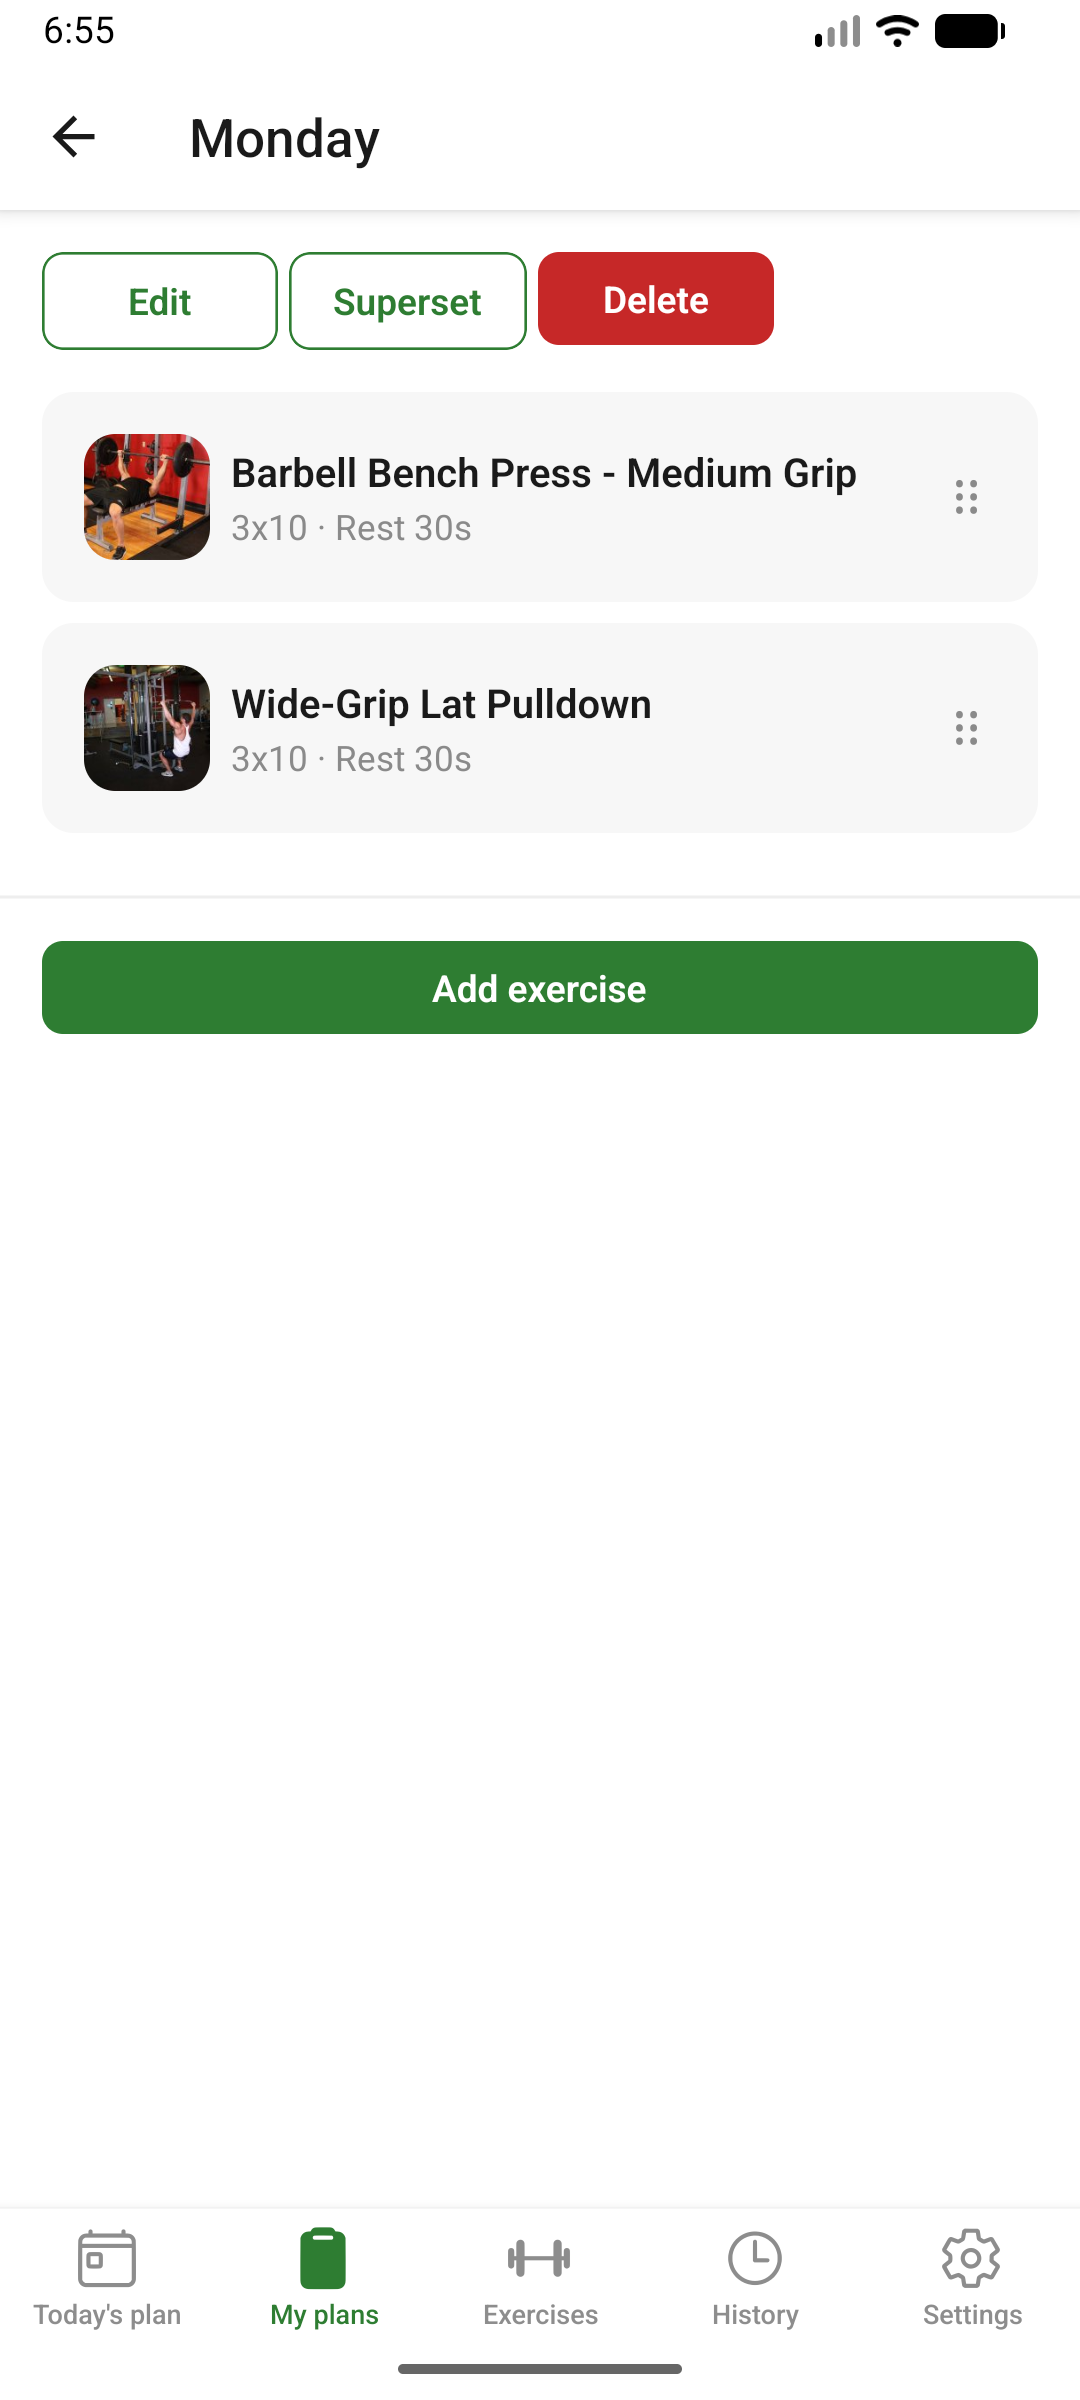
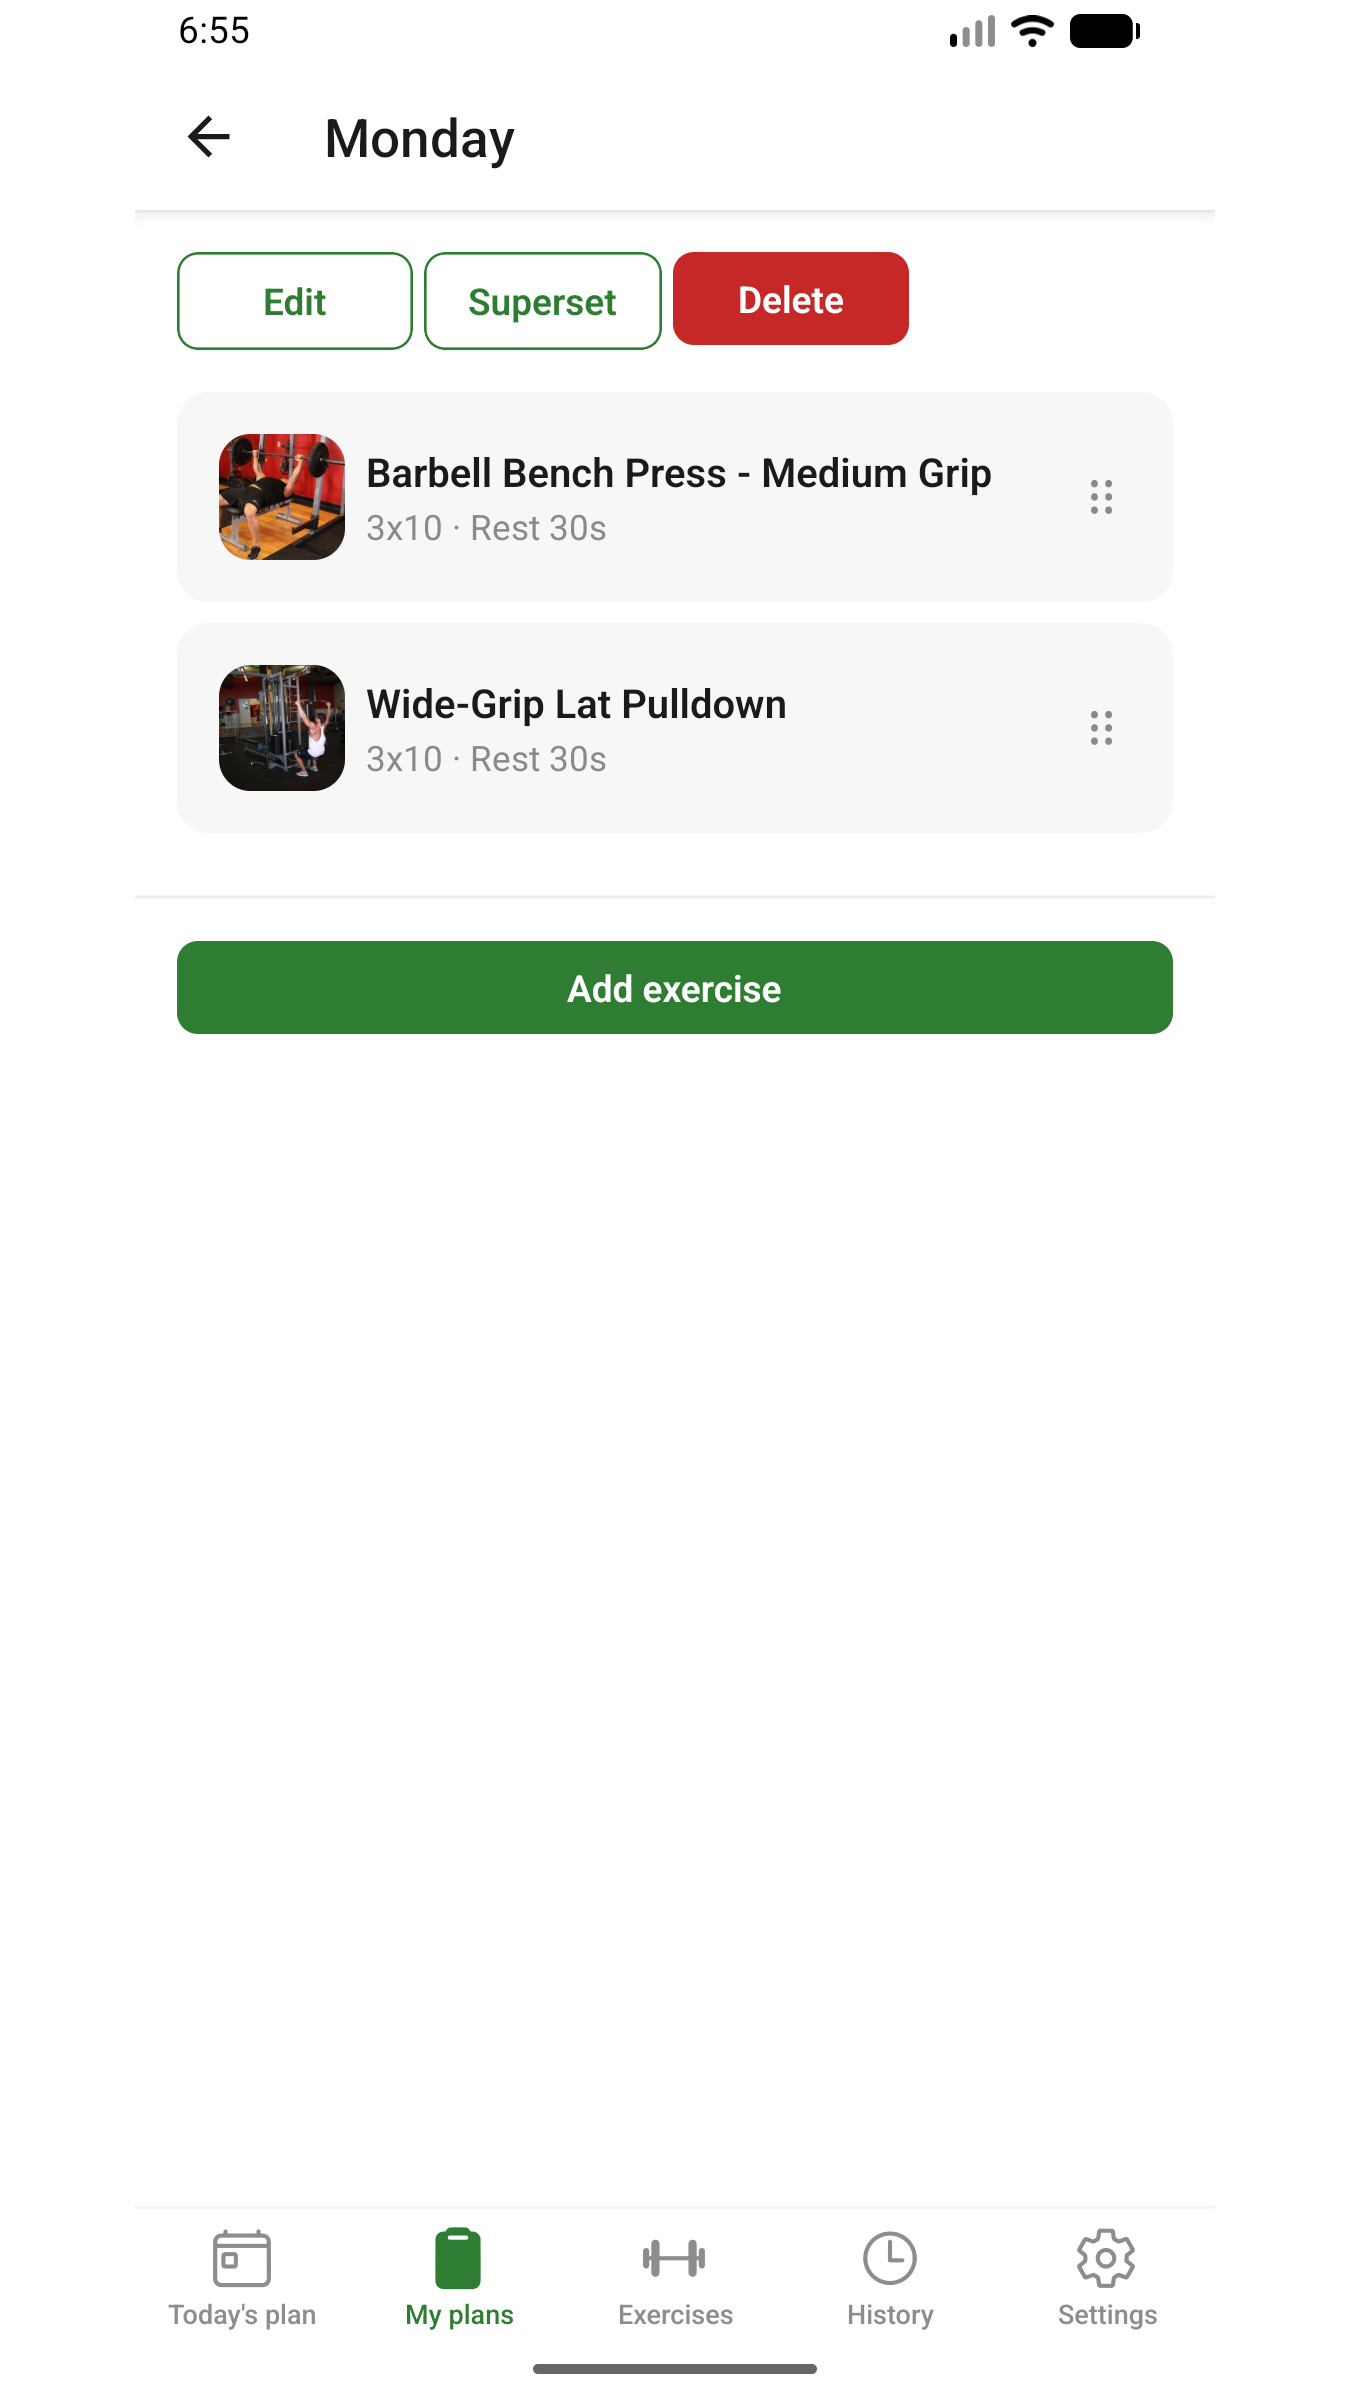
Tildar paso 1 del checklist de Play Store (#49)
* Tildar paso 1 del checklist de Play Store (app creada)

Parte de #38

Claude-Session: https://claude.ai/code/session_01NiTVvvL35n2iUcrgogusV8

* Ajustar las capturas de Play Store a proporcion 9:16

El uploader de Play Console exige 16:9-9:16 para capturas de telefono;
el emulador capturaba en 1080x2400 (20:9), fuera de rango. Se agrega
pillarbox blanco a los costados (invisible, mismo fondo que la app)
hasta 1350x2400 = 9:16 exacto, sin recortar contenido.

Parte de #38

Claude-Session: https://claude.ai/code/session_01NiTVvvL35n2iUcrgogusV8

---------

diff --git a/android/app/store-assets/README.md b/android/app/store-assets/README.md
@@ -20,6 +20,14 @@ cuando se cree la ficha de la app — no se usa en el build de la app.
   una ficha localizada (hoy están en inglés porque el emulador estaba en
   ese idioma).
 
+  **Proporción 9:16**: el emulador captura en 1080x2400 (20:9), fuera del
+  rango 16:9–9:16 que exige el uploader de Play Console para capturas de
+  teléfono. Se corrigió agregando pillarbox blanco a los costados (queda
+  invisible porque el fondo de la app es blanco) hasta 1350x2400 = 9:16
+  exacto, sin recortar ningún contenido. Regenerar así tras sacar capturas
+  nuevas del emulador:
+  `magick captura-original.png -gravity center -background white -extent 1350x2400 screenshot-N-nombre.png`
+
 ## Textos de la ficha (nombre, descripciones)
 
 **Nombre de la app** (máx. 30 caracteres): `Gym Apk`

diff --git a/DOCS/PLAY_STORE_CHECKLIST.md b/DOCS/PLAY_STORE_CHECKLIST.md
@@ -21,11 +21,11 @@ código (firma de release, assets, textos, política de privacidad — ver
       producción)
 
 ## 1. Crear la app
-- [ ] Play Console → **Crear app**
-- [ ] Nombre: `Gym Apk`
-- [ ] Idioma predeterminado (recomendado: español)
-- [ ] Tipo: **App** (no juego), gratis
-- [ ] Aceptar declaraciones de developer program policies y US export laws
+- [x] Play Console → **Crear app** (hecho 2026-09-29)
+- [x] Nombre: `Gym Apk`
+- [x] Idioma predeterminado: español
+- [x] Tipo: **App** (no juego), gratis
+- [x] Aceptar declaraciones de developer program policies y US export laws
 
 ## 2. Ficha principal de la tienda
 `Grow → Store presence → Main store listing`
